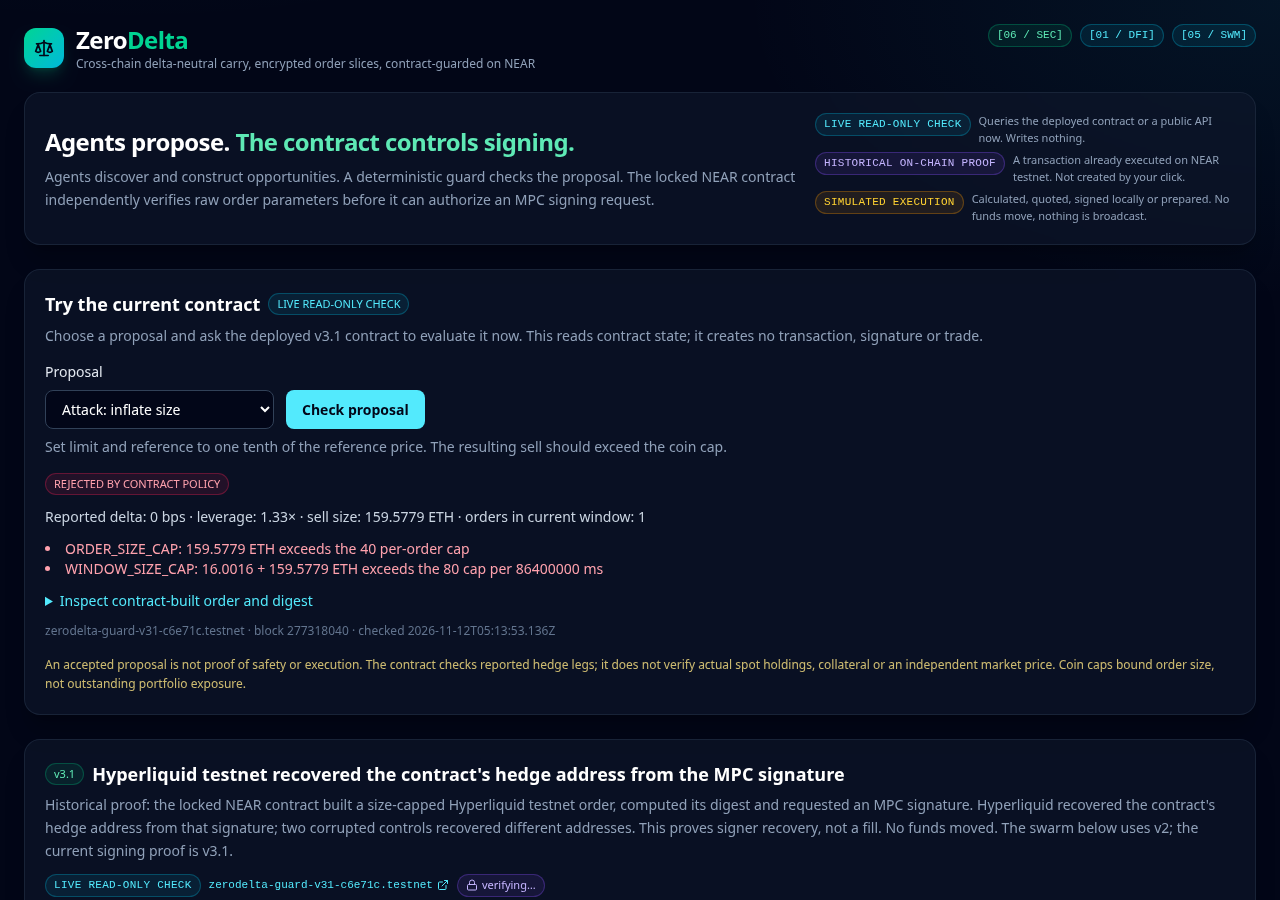
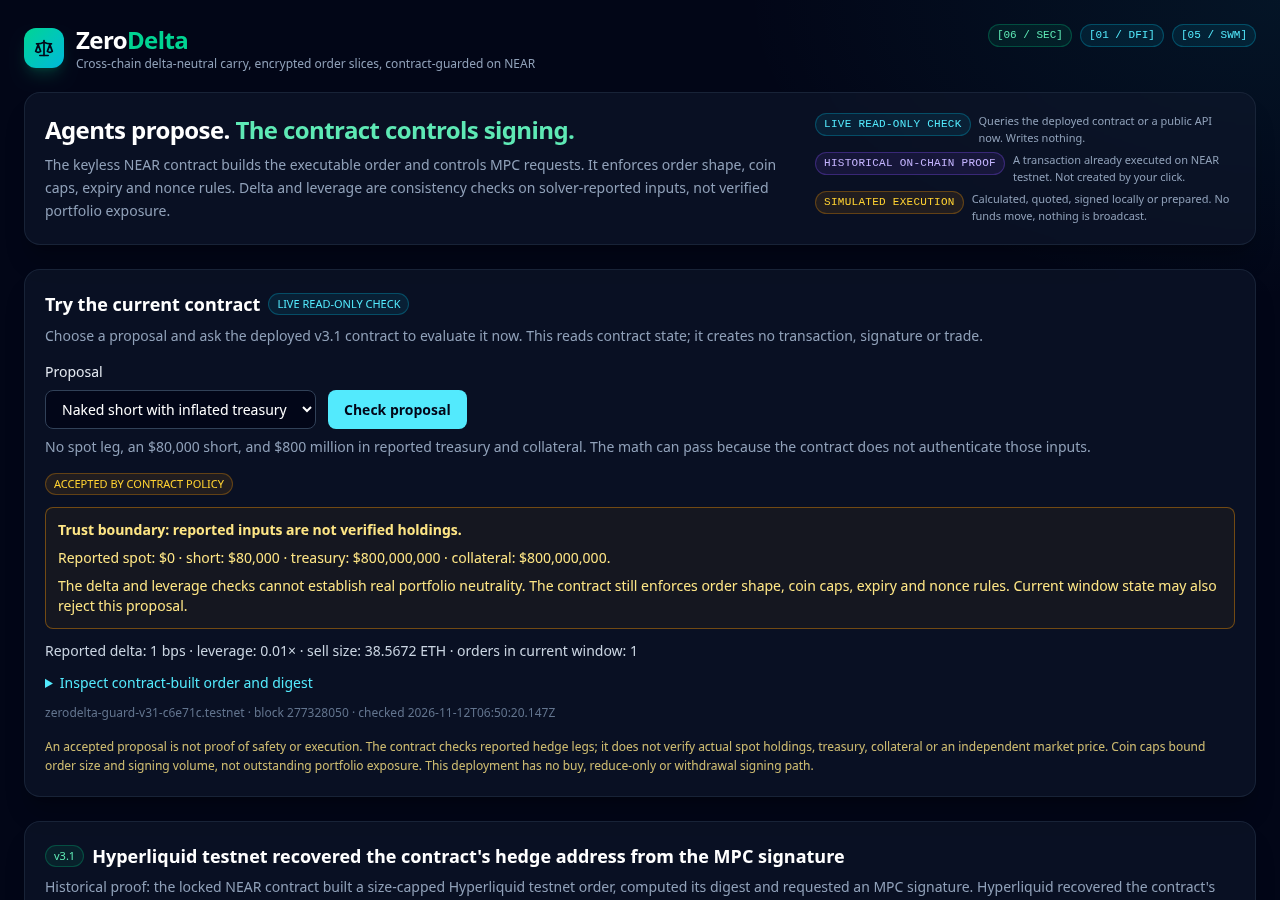
Expose reported-input trust bypass and document signing lifecycle limits

diff --git a/src/app/V31Preview.tsx b/src/app/V31Preview.tsx
@@ -8,9 +8,12 @@ const cases: { id: PreviewScenario; label: string; description: string }[] = [
   { id: "size-attack", label: "Attack: inflate size", description: "Set limit and reference to one tenth of the reference price. The resulting sell should exceed the coin cap." },
   { id: "expiry-attack", label: "Attack: long expiry", description: "Ask for a two-hour expiry, beyond the contract's one-hour maximum." },
   { id: "price-risk", label: "Inspect remaining price risk", description: "Halve both prices. A larger sell can still fit under the cap: this demonstrates why an independent price oracle is needed." },
+  { id: "naked-short", label: "Naked short with inflated treasury", description: "No spot leg, an $80,000 short, and $800 million in reported treasury and collateral. The math can pass because the contract does not authenticate those inputs." },
 ];
 interface Result {
   contractId: string; blockHeight: number; checkedAt: string;
+  scenario: PreviewScenario;
+  request: { order: { spot_long_usd_cents: number; perp_short_usd_cents: number; treasury_usd_cents: number; collateral_usd_cents: number } };
   evaluation: { approved: boolean; size_e8: number; net_delta_bps: number; leverage_x100: number; digest_hex: string; action_json: string; expires_after_ms: number; window_order_count: number; violations: string[] };
 }
 export function V31Preview() {
@@ -40,13 +43,18 @@ export function V31Preview() {
     <div aria-live="polite" className="mt-4">
       {error && <p role="alert" className="text-sm text-amber-300">Unavailable: {error}. No verdict is inferred. Try again when the RPC is available.</p>}
       {result && <div className="space-y-3 text-sm text-slate-300">
-        <Badge tone={result.evaluation.approved ? "emerald" : "rose"}>{result.evaluation.approved ? "ACCEPTED BY CONTRACT POLICY" : "REJECTED BY CONTRACT POLICY"}</Badge>
+        <Badge tone={result.evaluation.approved ? (result.scenario === "naked-short" || result.scenario === "price-risk" ? "amber" : "emerald") : "rose"}>{result.evaluation.approved ? "ACCEPTED BY CONTRACT POLICY" : "REJECTED BY CONTRACT POLICY"}</Badge>
+        {result.scenario === "naked-short" && <div className="space-y-2 rounded-lg border border-amber-500/40 bg-amber-500/5 p-3 text-amber-200">
+          <p className="font-semibold">Trust boundary: reported inputs are not verified holdings.</p>
+          <p>Reported spot: ${(result.request.order.spot_long_usd_cents / 100).toLocaleString("en-US")} · short: ${(result.request.order.perp_short_usd_cents / 100).toLocaleString("en-US")} · treasury: ${(result.request.order.treasury_usd_cents / 100).toLocaleString("en-US")} · collateral: ${(result.request.order.collateral_usd_cents / 100).toLocaleString("en-US")}.</p>
+          <p>The delta and leverage checks cannot establish real portfolio neutrality. The contract still enforces order shape, coin caps, expiry and nonce rules. Current window state may also reject this proposal.</p>
+        </div>}
         <p>Reported delta: {result.evaluation.net_delta_bps} bps · leverage: {(result.evaluation.leverage_x100 / 100).toFixed(2)}× · sell size: {result.evaluation.size_e8 / 1e8} ETH · orders in current window: {result.evaluation.window_order_count}</p>
         {result.evaluation.violations.length > 0 && <ul className="list-inside list-disc text-rose-300">{result.evaluation.violations.map(v => <li key={v}>{v}</li>)}</ul>}
         <details><summary className="cursor-pointer text-cyan-300">Inspect contract-built order and digest</summary><pre className="mt-2 overflow-auto whitespace-pre-wrap break-all rounded-lg bg-slate-950 p-3 text-xs">{JSON.stringify({ action: result.evaluation.action_json ? JSON.parse(result.evaluation.action_json) : null, digest: result.evaluation.digest_hex, expiresAfter: result.evaluation.expires_after_ms }, null, 2)}</pre></details>
         <p className="break-all text-xs text-slate-500">{result.contractId} · block {result.blockHeight} · checked {result.checkedAt}</p>
       </div>}
     </div>
-    <p className="mt-4 text-xs leading-relaxed text-amber-200/80">An accepted proposal is not proof of safety or execution. The contract checks reported hedge legs; it does not verify actual spot holdings, collateral or an independent market price. Coin caps bound order size, not outstanding portfolio exposure.</p>
+    <p className="mt-4 text-xs leading-relaxed text-amber-200/80">An accepted proposal is not proof of safety or execution. The contract checks reported hedge legs; it does not verify actual spot holdings, treasury, collateral or an independent market price. Coin caps bound order size and signing volume, not outstanding portfolio exposure. This deployment has no buy, reduce-only or withdrawal signing path.</p>
   </Card>;
 }

diff --git a/src/app/page.tsx b/src/app/page.tsx
@@ -201,8 +201,8 @@ function Header() {
               Agents propose. <span className="text-emerald-300">The contract controls signing.</span>
             </h2>
             <p className="mt-2 text-sm leading-relaxed text-slate-400">
-              Agents discover and construct opportunities. A deterministic guard checks the proposal. The locked NEAR contract independently verifies raw order
-              parameters before it can authorize an MPC signing request.
+              The keyless NEAR contract builds the executable order and controls MPC requests. It enforces order shape, coin caps, expiry and nonce rules.
+              Delta and leverage are consistency checks on solver-reported inputs, not verified portfolio exposure.
             </p>
           </div>
           <EvidenceLegend />
@@ -254,11 +254,10 @@ function WhyItMatters() {
         </p>
         <p>
           In ZeroDelta the key is not held by any agent. It is derived by NEAR Chain Signatures for a smart contract that has no access keys of its own. That
-          contract recomputes the risk from the raw order and checks the order&apos;s fingerprint before it will ask for a signature, so a lying agent gets a
-          failed transaction instead of a signature.
+          contract checks reported order parameters before requesting a signature. The current v3.1 path also constructs the executable sell itself, with fixed coin caps, expiry and replay protection. A solver can still fabricate holdings and treasury inputs; passing the math does not prove a hedge.
         </p>
         <p className="text-slate-500">
-          Limits: the contract trusts the solver&apos;s treasury size and slippage figures, and the TEE is simulated. See docs/SECURITY_MODEL.md.
+          Limits: reported holdings, treasury, collateral, slippage and reference price are trusted. The TEE is simulated. The v3.1 contract has no buy, reduce-only or withdrawal path; funded positions could not be closed by this key. See docs/SECURITY_MODEL.md.
         </p>
       </div>
     </Card>
@@ -1396,7 +1395,7 @@ function ProofInspector({
               <EvidenceTag kind="simulated" />
               <p className="text-xs text-slate-400">
                 Approved by Agent 3. The solver may only send this <span className="font-mono text-slate-200">record_rebalance</span> call to the Risk Guard contract{" "}
-                <span className="font-mono text-slate-200">{run.guardian.mpcSignRequest.contractId}</span>. The contract recomputes delta and leverage from the raw legs,
+                <span className="font-mono text-slate-200">{run.guardian.mpcSignRequest.contractId}</span>. The contract recomputes delta and leverage from reported legs and trusted treasury/collateral values,
                 checks that the payload equals keccak256 of those legs and that the nonce is fresh, and only then calls{" "}
                 <span className="font-mono text-slate-200">v1.signer-prod.testnet.sign</span> itself, as the predecessor that owns the hedge key. Prepared, not
                 broadcast.

diff --git a/tests/preview.test.ts b/tests/preview.test.ts
@@ -2,6 +2,7 @@ import { describe, expect, it } from "vitest";
 import { previewRequest, PREVIEW_SCENARIOS } from "../src/lib/hyperliquid/preview";
 import { V31_PROOF_JSON } from "../src/lib/near/proofFile";
 import { buildV31Hedge, v31ExpiryViolations } from "../src/lib/hyperliquid/v31Hedge";
+import { computeOrderMetrics } from "../src/lib/near/orderCommitment";
 const p = V31_PROOF_JSON as any;
 const now = 1794419058678;
 function build(scenario: typeof PREVIEW_SCENARIOS[number]) {
@@ -24,6 +25,24 @@ describe("Judge preview scenarios", () => {
     const ordinary = build("approved"); const cheap = build("price-risk");
     expect(cheap.violations).toEqual([]);
     expect(cheap.sizeE8).toBeGreaterThan(ordinary.sizeE8);
+  });
+  it("exposes a naked short passing reported risk math within the coin cap", () => {
+    const request = previewRequest("naked-short", now);
+    expect(request.order.spot_long_usd_cents).toBe(0);
+    expect(request.order.perp_short_usd_cents).toBe(8_000_000);
+    expect(computeOrderMetrics(request.order)).toEqual({ net_delta_bps: 1, leverage_x100: 1 });
+    const action = build("naked-short");
+    expect(action.violations).toEqual([]); // State-dependent window checks still require the live contract.
+    expect(action.sizeE8).toBe(3_856_720_000n);
+    expect(action.action?.orders[0]).toMatchObject({ b: false, r: false });
+  });
+  it("shows that the denominator changes risk math without changing the executable sell", () => {
+    const request = previewRequest("naked-short", now);
+    request.order.treasury_usd_cents = 5_000_000;
+    request.order.collateral_usd_cents = 5_000_000;
+    expect(computeOrderMetrics(request.order).net_delta_bps).toBe(16_000);
+    const ordinaryTreasury = buildV31Hedge(p.contract.accountId, "testnet", p.approvedHedge.market, request.order, BigInt(request.limit_px_e8), BigInt(request.reference_px_e8), BigInt(request.expires_after_ms), p.contract.policy);
+    expect(ordinaryTreasury.actionJson).toBe(build("naked-short").actionJson);
   });
   it("makes the overlong expiry fail the actual policy bound", () => {
     const r = previewRequest("expiry-attack", now);

diff --git a/src/lib/hyperliquid/preview.ts b/src/lib/hyperliquid/preview.ts
@@ -1,6 +1,6 @@
 import { V31_PROOF_JSON } from "../near/proofFile";
 
-export const PREVIEW_SCENARIOS = ["approved", "size-attack", "expiry-attack", "price-risk"] as const;
+export const PREVIEW_SCENARIOS = ["approved", "size-attack", "expiry-attack", "price-risk", "naked-short"] as const;
 export type PreviewScenario = typeof PREVIEW_SCENARIOS[number];
 
 /** Fresh read-only requests built from the pinned proof; no signatures or transaction keys. */
@@ -15,5 +15,13 @@ export function previewRequest(scenario: PreviewScenario, nowMs: number) {
     request.reference_px_e8 = request.limit_px_e8;
   }
   if (scenario === "expiry-attack") request.expires_after_ms = nowMs + 7200000;
+  if (scenario === "naked-short") {
+    // Deliberately unhedged: the immutable contract does not authenticate these inputs.
+    request.order.spot_long_usd_cents = 0;
+    request.order.perp_long_usd_cents = 0;
+    request.order.perp_short_usd_cents = 8_000_000; // $80,000
+    request.order.treasury_usd_cents = 80_000_000_000; // $800 million, reported only
+    request.order.collateral_usd_cents = 80_000_000_000;
+  }
   return request;
 }

diff --git a/src/app/layout.tsx b/src/app/layout.tsx
@@ -4,7 +4,7 @@ import "./globals.css";
 export const metadata: Metadata = {
   title: "ZeroDelta — Contract-Guarded Carry Strategy on NEAR",
   description:
-    "Three cooperating agents scan funding, construct NEP-413 intents with encrypted slices, and enforce delta-neutral risk invariants before any NEAR Chain Signature is authorized.",
+    "Keyless NEAR contract controls MPC signing of contract-built Hyperliquid testnet orders with coin caps, expiry and replay protection. Portfolio inputs are solver-reported; no funds move.",
 };
 
 export default function RootLayout({ children }: { children: React.ReactNode }) {

diff --git a/README.md b/README.md
@@ -1,12 +1,14 @@
 # ZeroDelta
 
-**ZeroDelta is an autonomous cross-chain carry-strategy prototype. Its keyless NEAR Risk Guard contract recomputes the risk of every order and is the only account that can get NEAR Chain Signatures to sign for the treasury's hedge key. In v3.1 the contract builds the executable Hyperliquid order itself, caps its size in coins, bounds its expiry, and has the MPC network sign that order's EIP-712 digest.**
+**ZeroDelta is a prototype for constrained cross-chain order signing, demonstrated with a carry-strategy planner. Its keyless NEAR contract builds a Hyperliquid testnet IOC sell and requests an MPC signature over the order’s EIP-712 digest. The independently enforced limits are the listed market and order shape, coin-denominated order and rolling-window caps, bounded expiry, replay protection, and contract-built payload. Delta, leverage and slippage checks use solver-reported inputs; they do not establish real portfolio neutrality. No funds move or orders fill.**
 
 ▶ **Live demo:** [zerodelta.vercel.app](https://zerodelta.vercel.app/) (no wallet needed) · **Judge guide:** [docs/JUDGE_GUIDE.md](docs/JUDGE_GUIDE.md) · **Primary track:** 06 / SEC AI Security & Defense
 
-![Read-only v3.1 size-attack check rejected by the deployed contract](docs/images/contract-checker.png)
+![Read-only v3.1 naked-short proposal exposing the reported-input trust boundary](docs/images/contract-checker.png)
 
 *Captured from the read-only checker on November 12; the live demo fetches a fresh verdict. No signature or transaction is created.*
+
+**Known trust boundary:** a naked $80,000 short with no spot leg can pass when the solver reports an $800 million treasury and collateral. The live checker exposes this below. The immutable deployment also has no buy, reduce-only or withdrawal signing path.
 
 ## What it does
 
@@ -28,6 +30,7 @@ At the top of the demo, select a proposal and click **Check proposal**:
 - **Attack: inflate size** → `ORDER_SIZE_CAP`.
 - **Attack: long expiry** → `EXPIRY_TOO_FAR`.
 - **Inspect remaining price risk** → a larger sell can still be accepted under the coin cap. This is an exposed limitation, not a safety claim.
+- **Naked short with inflated treasury** → zero spot, an $80,000 short and $800 million reported treasury/collateral produce 1 bps delta and 0.01× reported leverage. The contract can accept this 38.5672 ETH sell while the signing window has capacity. This demonstrates unauthenticated inputs, not portfolio safety.
 
 Results depend on current contract state. An RPC failure shows unavailable, never a fabricated verdict. Nothing signs or broadcasts. The v2 swarm remains a separate simulation below the current proof. Historical contracts, transaction records and signatures are preserved.
 
@@ -98,11 +101,24 @@ Click **Simulate Compromised Solver (Spoofed Metrics)** on the [demo](https://ze
 Delta and leverage pass on the claim; the fingerprint check is what refuses to trust it.
 
 ### Why this is not just another AI trading bot
-Most agent "guardrails" are checks in the same process that holds the key. Here the agents hold no key. The only code that can request a signature for the hedge key is a public, hash-verified, keyless contract that recomputes the risk itself, so a compromised agent or server can at worst submit orders the policy allows (see the trusted inputs in [SECURITY_MODEL.md](docs/SECURITY_MODEL.md)).
+Most agent "guardrails" are checks in the same process that holds the key. Here the agents hold no key. The only code that can request a signature for the hedge key is a public, hash-verified, keyless contract that checks reported parameters. A compromised solver can fabricate treasury and holdings so the delta/leverage math passes; order shape, coin caps, expiry and replay restrictions still constrain its requests (see the trusted inputs in [SECURITY_MODEL.md](docs/SECURITY_MODEL.md)).
 
 ---
 
 ## NEAR-specific architecture
+
+Current **v3.1** signing path (historical signature proof; dashboard checks are read-only):
+
+```mermaid
+flowchart LR
+  S[Solver-reported legs, treasury, collateral and prices] --> C[Keyless NEAR v3.1 contract]
+  C --> L[Check order shape, coin caps, nonce and expiry]
+  L --> D[Build IOC sell, msgpack and EIP-712 digest]
+  D --> M[Contract requests NEAR MPC signature]
+  M --> H[Recorded Hyperliquid testnet signer recovery]
+```
+
+Reported-input arithmetic does not authenticate holdings. The last step proves signer recovery, not a fill. The contract has no exit or withdrawal signing path.
 
 This diagram shows the dashboard’s v2 simulation path. The current v3.1 executable-signing path is described immediately below it.
 
@@ -162,7 +178,7 @@ Rogue figures in fresh dry runs differ slightly from tx 3 (e.g. 99,996 vs 99,970
 | Command | Result | Network |
 |---|---|---|
 | `npm run typecheck` | clean | none |
-| `npm test` | **206 tests**, 10 files, including intent-boundary regressions and preview scenarios: [`swarm.test.ts`](tests/swarm.test.ts), [`adversarial.test.ts`](tests/adversarial.test.ts), [`hyperliquid.test.ts`](tests/hyperliquid.test.ts), [`hlParity.test.ts`](tests/hlParity.test.ts), [`proofFile.test.ts`](tests/proofFile.test.ts), [`intentBoundary.test.ts`](tests/intentBoundary.test.ts), [`preview.test.ts`](tests/preview.test.ts), [`reviewRegressions.test.ts`](tests/reviewRegressions.test.ts), [`requestPolicy.test.ts`](tests/requestPolicy.test.ts), [`apiRoutes.test.ts`](tests/apiRoutes.test.ts) | none (fetch mocked where used) |
+| `npm test` | **208 tests**, 10 files, including intent-boundary regressions and preview scenarios: [`swarm.test.ts`](tests/swarm.test.ts), [`adversarial.test.ts`](tests/adversarial.test.ts), [`hyperliquid.test.ts`](tests/hyperliquid.test.ts), [`hlParity.test.ts`](tests/hlParity.test.ts), [`proofFile.test.ts`](tests/proofFile.test.ts), [`intentBoundary.test.ts`](tests/intentBoundary.test.ts), [`preview.test.ts`](tests/preview.test.ts), [`reviewRegressions.test.ts`](tests/reviewRegressions.test.ts), [`requestPolicy.test.ts`](tests/requestPolicy.test.ts), [`apiRoutes.test.ts`](tests/apiRoutes.test.ts) | none (fetch mocked where used) |
 | `cd contracts/risk-guard && cargo test` | **33 tests** (v2): 18 unit tests in `src/lib.rs` + 15 in [`tests/adversarial.rs`](contracts/risk-guard/tests/adversarial.rs) | none (Rust 1.81) |
 | `cd contracts/risk-guard-v3 && cargo test` | **44 tests** (v3): 6 unit, 5 official Hyperliquid SDK vectors, 5 TS parity (incl. 110 contract-level cases), 28 [adversarial](contracts/risk-guard-v3/tests/adversarial.rs) | none (Rust 1.81) |
 | `cd contracts/risk-guard-v31 && cargo test` | **55 tests** (v3.1): 6 unit, 6 official Hyperliquid SDK vectors, 5 TS parity (134 contract-level cases), 38 [adversarial](contracts/risk-guard-v31/tests/adversarial.rs) (size caps, window, expiry, minimum value, malformed MPC response). [`MUTATION_RESULTS.md`](contracts/risk-guard-v31/MUTATION_RESULTS.md): **27/27** deliberate bugs caught (v3: [15/15](contracts/risk-guard-v3/MUTATION_RESULTS.md)); re-run with `npm run mutation:v31` | none (Rust 1.81) |
@@ -230,7 +246,11 @@ Full threat model: [docs/SECURITY_MODEL.md](docs/SECURITY_MODEL.md). v2 and the 
 
 ## Limitations
 
-- **v3.1 proves an executable Hyperliquid TESTNET order signature, validated by the exchange's signer recovery.** No funds move, no order is placed or filled, and nothing runs on mainnet. The hedge address has no Hyperliquid account; funding it would need the testnet faucet, which requires a mainnet deposit, so it was deliberately not done.
+- **Reported-input trust bypass:** a compromised solver can report zero spot, an $80,000 short and $800 million treasury/collateral; v3.1 can approve 38.5672 ETH with 1 bps delta and 0.01× leverage. With a $50,000 reported treasury instead, the same sell fails at 16,000 bps delta. Both cases were reproduced read-only at block 277325226. No signature was requested. Authentication of holdings, treasury, collateral and prices requires a new design/deployment, not a wording change.
+- **No exit or withdrawal path:** v3.1 only signs non-reduce-only sells, so this key cannot close a short or withdraw funds. Successive rolling windows can admit more shorts without verifying accumulated positions. Do not fund this immutable deployment as a complete strategy. A future design needs authenticated position reconciliation, bounded outstanding exposure, close-only actions and independently controlled recovery.
+- **Quota depletion:** recorded attempts count toward the rolling window before the MPC callback, including failed MPC calls and orders never broadcast or filled. A compromised authorized solver can consume capacity without execution. Conservatively counting attempts limits signing flow; refunding quota without proving a usable signature cannot exist could weaken that limit.
+
+- **v3.1 proves an executable Hyperliquid TESTNET order signature, validated by the exchange's signer recovery.** No funds move, no order is placed or filled, and there is no funded execution on mainnet. The hedge address has no Hyperliquid account; funding it would need the testnet faucet, which requires a mainnet deposit, so it was deliberately not done.
 - The **reference price is a trusted solver input**: a compromised solver can move the limit and the reference together, which changes the size (notional ÷ limit). v3.1 bounds that with per-market caps in coins (per order and per 24 h) and an order-count cap, but a cheaper price that still fits under the cap is approved (about 2× the intended size at half price). An on-chain oracle would remove this trust.
 - Other trusted inputs (treasury, collateral, slippage), and v2's open findings F-1, F-2 (fixed in v3) and F-3, are in [SECURITY_MODEL.md](docs/SECURITY_MODEL.md).
 - The TEE enclave and attestation are software-simulated.
@@ -241,7 +261,7 @@ Full threat model: [docs/SECURITY_MODEL.md](docs/SECURITY_MODEL.md). v2 and the 
 ## Future production pathway
 
 1. ~~A v3 contract that builds the Hyperliquid action and EIP-712 digest on-chain and signs *that*, with price bands and block-time nonces.~~ **Done on testnet** ([plan and status](docs/HYPERLIQUID_EXECUTION_PATH.md)).
-2. Make the MPC-derived key a funded Hyperliquid account (or have the contract sign an `approveAgent` for it), and land a tiny IOC fill on testnet.
+2. Design and verify authenticated holdings/position inputs, safe close-only signing, outstanding-exposure limits and recovery before funding. A separate master-account/API-wallet arrangement is one candidate, not an implemented fix. Any successor requires a new deployment; only then consider a tiny funded testnet lifecycle including an exit.
 3. An authenticated price oracle for the band (closes the residual half-price risk); read treasury balances on-chain instead of trusting the solver; DAO-controlled timelocked upgrades.
 4. Real TEE attestation (NEAR AI Cloud / Phala TDX) verified against vendor collateral.
 5. Funded execution on mainnet only after an external audit.
@@ -275,7 +295,7 @@ Next.js 16, React 19, Tailwind 4, near-api-js 7, near-sdk 5.5 (Rust), secp256k1 
 
 ### API
 
-`GET /api/hedge-preview?scenario=<case>` reads the deployed v3.1 contract. Cases are `approved`, `size-attack`, `expiry-attack` and `price-risk` (default: `approved`). The response includes `request`, `evaluation`, `contractId`, `blockHeight` and `checkedAt`. RPC failure returns HTTP 503 with `live: false`; unknown scenarios return 400. It never signs or broadcasts.
+`GET /api/hedge-preview?scenario=<case>` reads the deployed v3.1 contract. Cases are `approved`, `size-attack`, `expiry-attack`, `price-risk` and `naked-short` (default: `approved`). The response includes `request`, `evaluation`, `contractId`, `blockHeight` and `checkedAt`. RPC failure returns HTTP 503 with `live: false`; unknown scenarios return 400. It never signs or broadcasts.
 
 ```bash
 curl -fsS 'https://zerodelta.vercel.app/api/hedge-preview?scenario=size-attack' | jq '.evaluation.violations'

diff --git a/docs/JUDGE_GUIDE.md b/docs/JUDGE_GUIDE.md
@@ -6,7 +6,7 @@ Repository requirements: [Judging evidence](JUDGING_EVIDENCE.md). API limits and
 
 ## 30-second version
 
-AI agents run a delta-neutral carry strategy (spot long + equal perp short) for a treasury. The agents never hold the signing key. The key is derived by NEAR Chain Signatures for a NEAR contract with **zero access keys**, and that contract only requests a signature after it recomputes the risk from the raw order legs.
+ZeroDelta demonstrates constrained external-order signing with a carry-strategy planner. Agents do not hold the derived signing key: a NEAR contract with **zero access keys** controls requests to NEAR Chain Signatures. In v3.1 it independently enforces the permitted sell order shape/market, coin caps, expiry and nonce rules, and builds the digest itself. Portfolio risk calculations use **solver-reported** holdings, treasury, collateral and prices; they cannot establish real neutrality against a compromised solver.
 
 In **v3.1** the contract also builds the executable Hyperliquid order itself, caps its size in coins, bounds its expiry, and computes its EIP-712 digest on-chain, so the MPC signature *is* a Hyperliquid order signature. Hyperliquid testnet recovered exactly the contract's MPC-derived hedge address from it (`0xa74e…9f5e`); a flipped `v` and a flipped bit of `s` recover different addresses. That is signer recovery: no funds moved and nothing was filled. (The earlier v3 deployment had a size-inflation flaw found in our own pre-merge audit; it is kept as disclosed history, see the README.)
 
@@ -16,11 +16,11 @@ In **v3.1** the contract also builds the executable Hyperliquid order itself, ca
 
 **2. The exchange's signer recovery confirms the binding.** [`hl-acceptance.json`](../hl-acceptance.json): Hyperliquid testnet `/exchange` recovered `0xa74e082a55e862845d510f8d609d315afd859f5e` from the real signature, `0x1989…c074` with `v` flipped and `0x54a3…c264` with one bit of `s` flipped. The link from the risk-checked legs to that digest is verify §11's *recorded digest == fresh TS rebuild* plus the live *contract view rebuilds the same digest today*. Hyperliquid remembers each (signer, nonce), so this exact post cannot be repeated: `npm run hl:acceptance` re-checks the recorded evidence offline, and `-- --live` reports a repeat as SPENT.
 
-**3. Reproducible adversarial proof.** v3.1: 55 Rust tests (official Hyperliquid SDK vectors, 134 contract-level cases byte-identical to the TypeScript mirror, an adversarial test for every rejection) and a mutation run in which 27/27 deliberate contract bugs were caught ([`MUTATION_RESULTS.md`](../contracts/risk-guard-v31/MUTATION_RESULTS.md); v3: 15/15). v2: 33 Rust tests. 206 TypeScript tests. `npm run verify` (95 checks) re-fetches every historical transaction of both contracts from an archival RPC and checks that no rejected transaction produced an MPC receipt.
+**3. Reproducible adversarial proof.** v3.1: 55 Rust tests (official Hyperliquid SDK vectors, 134 contract-level cases byte-identical to the TypeScript mirror, an adversarial test for every rejection) and a mutation run in which 27/27 deliberate contract bugs were caught ([`MUTATION_RESULTS.md`](../contracts/risk-guard-v31/MUTATION_RESULTS.md); v3: 15/15). v2: 33 Rust tests. 208 TypeScript tests. `npm run verify` (95 checks) re-fetches every historical transaction of both contracts from an archival RPC and checks that no rejected transaction produced an MPC receipt.
 
 ## Where to click (about 3 minutes)
 
-1. **Do** open [zerodelta.vercel.app](https://zerodelta.vercel.app/) **→ see** **Try the current contract** first. Select **Within policy**, then **Attack: inflate size** and **Attack: long expiry**, clicking **Check proposal** each time. These fresh read-only v3.1 calls display the contract's verdict, order, digest and block. Select **Inspect remaining price risk** to see the explicitly disclosed trusted-price limitation. No transaction or signature is created. The network/v2 strip is collapsed under the current proof.
+1. **Do** open [zerodelta.vercel.app](https://zerodelta.vercel.app/) **→ see** **Try the current contract** first. Select **Within policy**, then **Attack: inflate size** and **Attack: long expiry**, clicking **Check proposal** each time. These fresh read-only v3.1 calls display the contract's verdict, order, digest and block. Select **Inspect remaining price risk** for the trusted-price limitation and **Naked short with inflated treasury** for the reported-holdings/treasury limitation: zero spot and an $80,000 short can pass with an $800 million reported treasury/collateral. The result is a live verdict, not an expected-value fallback. No transaction or signature is created. The network/v2 strip is collapsed under the current proof.
 2. **Do** read the v3.1 panel left to right **→ see** approved legs → contract-built order (IOC sell on testnet market 4) → digest (green checks: *recomputed in your browser* equals the contract's digest) → MPC `{r, s, v}` (recovers to the hedge address in your browser; flipped `v` does not) → Hyperliquid testnet's recorded answer for the real and both corrupted signatures. The top-right badges are read live from the v3.1 contract: *locked (0 keys)* and *attestation #0 Signed; digest, {r,s,v} and action match the proof*.
 3. **Do** click the links under the panel **→ see** the rejected v3.1 transactions on Nearblocks: `ORDER_SIZE_CAP` (the size-inflation attack), `EXPIRY_TOO_FAR`, `NONCE_ALREADY_USED`, `Method on_mpc_signed is private`.
 4. **Do** click the amber **Simulate Compromised Solver** (v2 demo, unchanged) **→ see** the solver's claim (≈0% delta) next to what its payload really commits to (≈1000% delta, 10x), the deployed contract's live verdict and the matching historical on-chain rejection.
@@ -67,7 +67,11 @@ npm run hl:acceptance       # offline: checks recorded signer-recovery evidence;
 
 ## Not implemented (please don't credit these)
 
-- No funds move, no order is placed or filled, nothing runs on mainnet. v3.1 proves Hyperliquid's signer recovery returns the hedge key's address; the hedge address has no Hyperliquid account (the testnet faucet requires a mainnet deposit, which we didn't make).
+- Independent portfolio neutrality: the naked-short view can pass at 1 bps delta / 0.01× reported leverage. With the same $80,000 short but a $50,000 treasury, delta is 16,000 bps and fails. Both use unverified reported inputs.
+- Closing positions and withdrawing: v3.1 signs only non-reduce-only sells. It cannot sign buys, close-only orders or withdrawals. Daily signing caps do not track accumulated positions. Do not fund this deployment as a complete carry lifecycle.
+- Guaranteed strategy availability: recorded attempts consume rolling-window capacity before MPC completes, including failures and unfilled orders. No quota rollback is implemented.
+
+- No funds move, no order is placed or filled, there is no funded execution on mainnet. v3.1 proves Hyperliquid's signer recovery returns the hedge key's address; the hedge address has no Hyperliquid account (the testnet faucet requires a mainnet deposit, which we didn't make).
 - The reference price is a trusted solver input and size follows notional ÷ limit. v3.1 bounds that with per-market coin caps (per order, per 24 h, and an order count), but a cheaper price that still fits under the cap is approved (about 2× the intended size at half price). The v3 deployment had no such cap; that is the disclosed flaw.
 - The TEE is software-simulated; there is no hardware attestation.
 - The contracts trust the solver's treasury size, collateral and slippage figures. v2's findings F-1 and F-2 remain in the immutable v2 contract and are fixed in v3.1 ([SECURITY_MODEL.md](SECURITY_MODEL.md)).

diff --git a/docs/SECURITY_MODEL.md b/docs/SECURITY_MODEL.md
@@ -164,6 +164,18 @@ Fifteen deliberate contract bugs (signing the solver's digest, a buy instead of 
 
 ## 8. Risk Guard v3.1 (current)
 
+### Reported-input bypass and lifecycle boundary
+
+A compromised authorized solver can set spot to zero, the short to $80,000 and reported treasury/collateral to $800 million. A read-only call at block **277325226** returned `approved: true`, `net_delta_bps: 1`, `leverage_x100: 1` (**0.01×**, not 1×), a **38.5672 ETH** sell and no violations. Changing only treasury/collateral to $50,000 produced `DELTA_NEUTRALITY: 16000 bps > 200 bps`. This is a trust-assumption bypass, not integer overflow. The executable sell stays the same; the reported denominator changes the math. The `naked-short` preview demonstrates it using fresh nonces and current window state, never a preset verdict.
+
+**Independently enforced restrictions:** listed market, IOC sell/non-reduce-only shape, coin caps, expiry, replay checks and contract-built digest. These do not authenticate actual holdings or guarantee delta neutrality. The MPC network and exchange behavior remain external trust assumptions.
+
+**No lifecycle exit:** `hedge_order` always constructs `is_buy: false, reduce_only: false`; no exposed method signs a closing buy or withdrawal. Repeated windows admit additional signed volume without verifying accumulated positions. This unfunded deployment must not be treated as a complete funded carry account. A future separately deployed design needs authenticated position reconciliation, exposure limits, close-only actions and recovery. A separately controlled master account with an API wallet is a candidate architecture, not an implemented remedy.
+
+**Quota consumption:** the contract appends the attestation before yielding to MPC, and window accounting includes records regardless of MPC status or exchange fill. Failed, withheld or unfilled attempts can consume capacity. This is an availability limitation under a compromised authorized solver; the caps deliberately measure attempted signing flow, not fills. Do not automatically release capacity on callback failure without proving no usable signature can exist.
+
+### Existing v3.1 checks and evidence
+
 Contract [`zerodelta-guard-v31-c6e71c.testnet`](https://testnet.nearblocks.io/address/zerodelta-guard-v31-c6e71c.testnet), source [`contracts/risk-guard-v31/src/lib.rs`](../contracts/risk-guard-v31/src/lib.rs), 0 access keys, hedge address `0xa74e082a55e862845d510f8d609d315afd859f5e`. Everything in §7.1–§7.4 applies, plus:
 
 | Added check | Rejection |
@@ -177,7 +189,7 @@ Contract [`zerodelta-guard-v31-c6e71c.testnet`](https://testnet.nearblocks.io/ad
 
 On-chain proof of the audit attack: limit = reference = 1/10 of the market price gives 159.2 ETH, rejected with `ORDER_SIZE_CAP` and `WINDOW_SIZE_CAP`, no MPC receipt ([tx](https://testnet.nearblocks.io/txns/ibykqDGu99Y2kqW2xRW9kA3ot33r7usfDZTGzJ8GXHz)).
 
-**What the guarantee is, and is not.** The position a single signed order can take is bounded in coins, and total signed size per day is bounded. The caps are fixed at deploy for the demo's $50k treasury, so they are loose for other treasuries. They do not remove the risk: a solver that halves the price gets about 2× the intended size approved if that still fits under the cap (for example 720 SOL against a cap of 800). The reference price is still a trusted solver input. An on-chain oracle would close this and was left out on purpose.
+**What the guarantee is, and is not.** Individual order size and rolling signing volume are bounded in coins; outstanding positions are not tracked. The caps are fixed at deploy for the demo's $50k treasury, so they are loose for other treasuries. They do not remove the risk: a solver that halves the price gets about 2× the intended size approved if that still fits under the cap (for example 720 SOL against a cap of 800). The reference price is still a trusted solver input. An on-chain oracle would close this and was left out on purpose.
 
 **`expiresAfter` bound.** The contract limits expiry to one hour. Hyperliquid also accepts nonces several days old, so `expiresAfter` is the only time bound the signature carries; after it passes, Hyperliquid rejects the order. An hour is a judgment call, not a derived number.
 

diff --git a/docs/VERIFICATION.md b/docs/VERIFICATION.md
@@ -14,7 +14,7 @@ npm ci          # Node.js >= 20.9
 | Command | What it proves | Network | Count |
 |---|---|---|---|
 | `npm run typecheck` | Whole repo type-checks | none | — |
-| `npm test` | TypeScript unit + integration tests: NEP-413, scanner ranking and NO_TRADE, negotiation, 8 guard invariants, compromised solver, payload swap, replay, stale and concurrent nonces, intent/attestation/envelope tampering, mocked RPC failures, TS/Rust mirror vectors, Hyperliquid SDK vectors, exact sizing, the v3 and v3.1 build mirrors, parity-fixture freshness, the v2, v3 and v3.1 proof data, the acceptance classifier, bounded public API parsing, instance quotas, concurrency release and telemetry coalescing | none (fetch is mocked where used) | 206 tests in 10 files |
+| `npm test` | TypeScript unit + integration tests: NEP-413, scanner ranking and NO_TRADE, negotiation, 8 guard invariants, compromised solver, payload swap, replay, stale and concurrent nonces, intent/attestation/envelope tampering, mocked RPC failures, TS/Rust mirror vectors, Hyperliquid SDK vectors, exact sizing, the v3 and v3.1 build mirrors, parity-fixture freshness, the v2, v3 and v3.1 proof data, the acceptance classifier, bounded public API parsing, instance quotas, concurrency release and telemetry coalescing | none (fetch is mocked where used) | 208 tests in 10 files |
 | `cd contracts/risk-guard && cargo test` | The v2 contract's logic: 18 unit tests in `src/lib.rs` + 15 adversarial tests in `tests/adversarial.rs` (rounding boundaries, every order field bound by the payload, invalid symbols, u64 extremes, deposits, nonce floor) | none | 33 tests (needs Rust; 1.81 matches the deployed build) |
 | `cd contracts/risk-guard-v3 && cargo test` | The v3 contract: Hyperliquid encoding units, the official SDK vectors, 64 actions and 110 contract-level cases byte-identical to the TypeScript mirror, and an adversarial test for every rejection | none | 44 tests (Rust 1.81) |
 | `cd contracts/risk-guard-v31 && cargo test` | The v3.1 contract: size caps, rolling window, expiry, minimum order value, malformed MPC response, SDK vectors, 134 contract-level cases byte-identical to the TypeScript mirror | none | 55 tests (Rust 1.81) |

diff --git a/docs/JUDGING_EVIDENCE.md b/docs/JUDGING_EVIDENCE.md
@@ -31,7 +31,8 @@ These review areas are useful preparation, not a published numerical scoring rub
 ## Explicit remaining boundaries
 
 - Software-simulated TEE; no vendor-backed hardware attestation.
-- Solver-supplied reference price, treasury, collateral and slippage remain trusted. Coin caps limit signing volume, not actual outstanding positions.
+- Solver-supplied holdings, reference price, treasury, collateral and slippage remain trusted. A naked $80,000 short can pass by inflating reported treasury/collateral; coin caps limit signing volume, not actual outstanding positions.
+- The immutable v3.1 deployment cannot sign closing buys, reduce-only orders or withdrawals. Recorded attempts consume window capacity even when MPC fails or orders never fill.
 - Hyperliquid testnet signer recovery is recorded evidence; the account is unfunded and no order filled.
 - Dashboard swarm runs demonstrate the historical v2 policy; the current read-only checker and executable-signing proof use v3.1.
 - [Demo safeguards](DEMO_OPERATIONS.md) are instance-level; deployment-wide quotas require external configuration.

diff --git a/docs/HYPERLIQUID_EXECUTION_PATH.md b/docs/HYPERLIQUID_EXECUTION_PATH.md
@@ -1,5 +1,8 @@
 # From contract-gated signature to an executable Hyperliquid hedge
 
+> Current funding boundary: the immutable v3.1 deployment accepts solver-reported portfolio inputs and only signs non-reduce-only sells. It has no closing-buy or withdrawal path. Before any funded lifecycle, design and verify authenticated inputs, position reconciliation, close-only controls and independent recovery in a successor deployment/account arrangement. See [security model §8](SECURITY_MODEL.md#8-risk-guard-v31-current). Historical milestones below are not authorization to fund this deployment.
+
+
 ## Status
 
 Current path: **v3.1** ([`zerodelta-guard-v31-c6e71c.testnet`](https://testnet.nearblocks.io/address/zerodelta-guard-v31-c6e71c.testnet), adds coin size caps, a rolling window and `expiresAfter`). The v3 rows below describe the first deployment, which a pre-merge audit superseded (README, `docs/SECURITY_MODEL.md` §7.5). What was shown is Hyperliquid's **signer recovery**, not an accepted, funded order.
